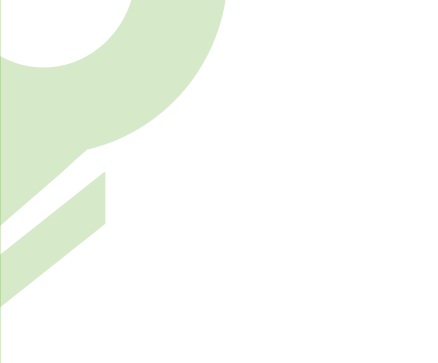
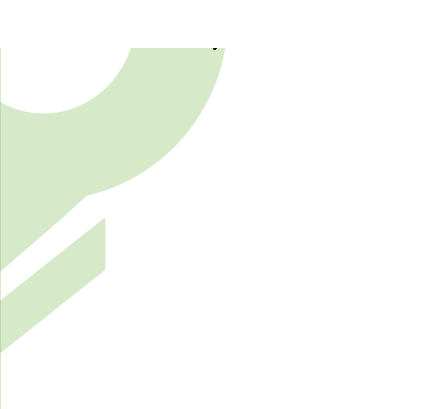
feedback changes

Changed region(s): [[0.0, 0.0, 0.5342, 0.7273], [0.0, 0.6061, 0.2374, 0.8788]]

diff --git a/src/components/about/About.jsx b/src/components/about/About.jsx
@@ -11,7 +11,7 @@ import Header from "../common/header/Header"
 const About = () => {
   const aboutUs = {
     title: "Who We Are",
-    description: "QuickBio USA Inc. is a high-tech enterprise specializing in food safety and animal disease diagnostics. Since its inception, QuickBio has invested in new technologies and innovations. We offer cutting-edge rapid diagnostic test kits for the dairy, food, feed, and veterinary sectors."
+    description: "QuickBio Diagnostics Co. Ltd. is a high-tech enterprise specializing in food safety and animal disease diagnostics. Since its inception, QuickBio has invested in new technologies and innovations. We offer cutting-edge rapid diagnostic test kits for the dairy, food, feed, and veterinary sectors."
   };
   const whyUs = {
     title: true,
@@ -19,7 +19,7 @@ const About = () => {
   };
   const Qa = {
     title: "QUALITY ASSURANCE & CERTIFICATIONS",
-    description: "At QUICKBIO USA, quality is paramount. We adhere to the highest industry standards, ensuring our products meet rigorous regulatory requirements for accuracy and reliability. Our commitment to innovation drives the development of new diagnostic platforms"
+    description: "At QUICKBIO China, quality is paramount. We adhere to the highest industry standards, ensuring our products meet rigorous regulatory requirements for accuracy and reliability. Our commitment to innovation drives the development of new diagnostic platforms"
   };
 
   return (

diff --git a/src/components/common/footer/Footer.jsx b/src/components/common/footer/Footer.jsx
@@ -56,15 +56,15 @@ const Footer = () => {
             <ul>
               <li className="flex items-center mb-12">
                 <i className="fa fa-map text-[#71B543] text-lg mr-4"></i>
-                California, United States Of America
+                999 Gaoxin Hi-Tech East Rd, Xinxiang, Henan Province, China.
               </li>
               <li className="flex items-center mb-12">
                 <i className="fa fa-phone-alt text-[#71B543] text-lg mr-4"></i>
-                +1 42 111 111 116
+                +86 42 111 111 116
               </li>
               <li className="flex items-center mb-12">
                 <i className="fa fa-paper-plane text-[#71B543] text-lg mr-4"></i>
-                Info@QuickBio.com
+                Info@quickbiodiagnostics.com
               </li>
             </ul>
           </div>

diff --git a/src/components/about/whoWeAre.jsx b/src/components/about/whoWeAre.jsx
@@ -1,6 +1,6 @@
 const WhoWeAre = ({ title, description }) => (
-  <div className="bg-[url('/images/q1.png')] bg-no-repeat bg-left bg-contain ">
-  <div className="bg-[url('/images/q4.png')] bg-no-repeat bg-right bg-contain">
+  <div className="bg-[url('/images/q1.png')] bg-no-repeat bg-left bg-contain overflow-hidden mt-10">
+  <div className="bg-[url('/images/q4.png')] bg-no-repeat bg-right bg-contain overflow-hidden">
     <div className="about py-16 px-[5%]" id="about">
       <div className="container mx-auto">
         <div className="text-center">

diff --git a/src/components/Pricing/index.jsx b/src/components/Pricing/index.jsx
@@ -91,7 +91,7 @@ const ContactForm = () => {
                 Phone Number
               </label>
               <PhoneInput
-                country={'us'}
+                country={'cn'}
                 value={formData.phone}
                 onChange={handlePhoneChange}
                 containerClass="w-full border rounded-md"

diff --git a/src/components/contact/Contact.jsx b/src/components/contact/Contact.jsx
@@ -88,7 +88,7 @@ const ContactForm = () => {
               Phone Number
             </label>
             <PhoneInput
-              country={'us'} 
+              country={'cn'} 
               value={formData.phone}
               onChange={handlePhoneChange}
               containerClass="w-full border rounded-md"

diff --git a/src/index.css b/src/index.css
@@ -1,3 +1,15 @@
 @tailwind base;
 @tailwind components;
 @tailwind utilities;
+
+/* Force light mode */
+:root {
+    color-scheme: light;
+  }
+  
+  /* Ensure dark mode styles don't apply */
+  html {
+    background-color: white;
+    color: black;
+  }
+  
